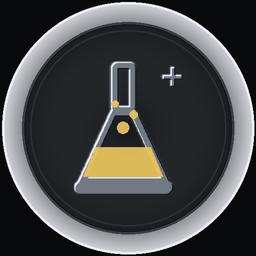
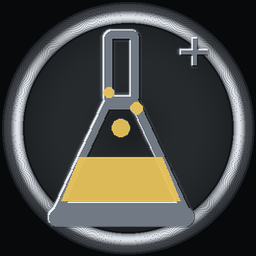
fix(achievements): match medallion proportions to the original art
Measured the original faces pixel-by-pixel and rebuilt the generator's
geometry around the numbers instead of eyeballing:

- emblem bbox max-dimension normalized to 77.5% of the canvas (originals
  measure 75-78%), replacing the ad-hoc scale factor
- bright beveled silver ring moved to 82-91% of the disc radius with a
  veteran-style bevel profile (dark inner edge, bright middle, mid outer
  edge) and a mid-dark outer rim beyond it
- drops the earlier engraved-band/hairline experiments that read thin and
  washed-out next to the originals

diff --git a/scripts/art/gen-achievement-medallions.py b/scripts/art/gen-achievement-medallions.py
@@ -1,7 +1,8 @@
 # Generator for the self-drawn TokenTracker achievement medallion faces
-# (256px, dark gunmetal disc + wide polished silver band + steel relief emblem
-# + one accent color). Style target: the existing AI-made medallions that live
-# beside the outputs. Rerun to tweak; outputs land in dashboard/public.
+# (256px, dark gunmetal disc + dark engraved band + hairline bright edge
+# + steel relief emblem + one accent color). Style target: the existing
+# AI-made medallions that live beside the outputs. Rerun to tweak; outputs
+# land in dashboard/public.
 from PIL import Image, ImageDraw, ImageOps, ImageChops, ImageFilter
 import math
 
@@ -10,27 +11,34 @@ OUT = "D:/tt-rebase/dashboard/public/achievements"
 
 STEEL = 235    # height for raised steel parts
 ACCENT_H = 205 # slightly lower relief for accent parts
-EMBLEM_SCALE = 1.32
+# Measured from the original medallions (veteran/streak/night-owl/wordsmith):
+# emblem bbox max-dimension ≈ 77.5% of the canvas; bright beveled ring at
+# ~82-91% of the disc radius; mid-dark outer rim beyond it.
+EMBLEM_TARGET = 0.775 * S
 
 
 def base_disc():
-    """Dark gunmetal face wrapped in a wide polished silver band — the thick
-    edge that reads as 'medallion' even before the CSS tier ring is applied."""
     img = Image.new("RGB", (S, S), (8, 9, 11))
     d = ImageDraw.Draw(img)
     cx = cy = S // 2
-    BAND_OUT, BAND_IN = 252, 212
-    for r in range(BAND_OUT, BAND_IN, -1):
-        t = (BAND_OUT - r) / float(BAND_OUT - BAND_IN)  # 0 outer → 1 inner
-        v = int(212 - 70 * t)
-        d.ellipse((cx - r, cy - r, cx + r, cy + r), outline=(v, v + 4, v + 9), width=2)
-    d.ellipse((cx - 251, cy - 251, cx + 251, cy + 251), outline=(236, 240, 245), width=4)
-    d.ellipse((cx - BAND_IN, cy - BAND_IN, cx + BAND_IN, cy + BAND_IN), outline=(56, 61, 67), width=5)
-    for r in range(BAND_IN - 6, 0, -2):
-        t = r / float(BAND_IN)
-        v = int(22 + 14 * math.sin(t * math.pi * 0.9))
+    # dark face (out to the ring's inner edge)
+    for r in range(210, 0, -2):
+        t = r / 210.0
+        v = int(26 + 14 * math.sin(t * math.pi * 0.9))
         d.ellipse((cx - r, cy - r, cx + r, cy + r), fill=(v, v + 3, v + 6))
-    d.ellipse((cx - 196, cy - 196, cx + 196, cy + 196), outline=(44, 49, 55), width=3)
+    # inner shadow groove
+    d.ellipse((cx - 213, cy - 213, cx + 213, cy + 213), outline=(18, 21, 25), width=7)
+    # bright beveled ring: dark inner edge → bright middle → mid outer edge
+    for r in range(234, 210, -1):
+        t = (r - 210) / 24.0
+        v = int(96 + 128 * math.sin(t * math.pi))
+        d.ellipse((cx - r, cy - r, cx + r, cy + r), outline=(v, v + 5, v + 11), width=1)
+    # mid-dark outer rim up to the edge
+    for r in range(252, 234, -1):
+        t = (r - 234) / 18.0
+        v = int(74 - 26 * t)
+        d.ellipse((cx - r, cy - r, cx + r, cy + r), outline=(v, v + 4, v + 9), width=1)
+    d.ellipse((cx - 252, cy - 252, cx + 252, cy + 252), outline=(30, 34, 40), width=4)
     return img
 
 
@@ -43,15 +51,18 @@ def emboss(height_map):
     )
 
 
-def scale_emblem(height_map, accent_layer, factor):
+def scale_emblem(height_map, accent_layer):
     """Scale the emblem about the UNION bounding box of both layers so the
-    steel relief and the accent tint stay perfectly aligned."""
+    steel relief and the accent tint stay perfectly aligned. The emblem's
+    max dimension is normalized to EMBLEM_TARGET (77.5% of the canvas —
+    measured from the original medallions)."""
     boxes = [l.getbbox() for l in (height_map, accent_layer)]
     boxes = [b for b in boxes if b]
     x0 = min(b[0] for b in boxes)
     y0 = min(b[1] for b in boxes)
     x1 = max(b[2] for b in boxes)
     y1 = max(b[3] for b in boxes)
+    factor = EMBLEM_TARGET / float(max(x1 - x0, y1 - y0))
     w = max(1, int((x1 - x0) * factor))
     hgt = max(1, int((y1 - y0) * factor))
     out_h = Image.new("L", (S, S), 0)
@@ -116,7 +127,7 @@ def early_bird():
         dh.arc((bx - 14 * s, by - 10 * s, bx, by + 10 * s), 200, 320, fill=STEEL, width=5)
         dh.arc((bx, by - 10 * s, bx + 14 * s, by + 10 * s), 220, 340, fill=STEEL, width=5)
     ImageDraw.Draw(acc).pieslice((202, 254, 310, 362), 180, 360, fill=ACC)
-    h, acc = scale_emblem(h, acc, EMBLEM_SCALE)
+    h, acc = scale_emblem(h, acc)
     save(compose(disc, h, acc), "early-bird.png")
 
 
@@ -145,7 +156,7 @@ def around_the_clock():
     moon = crescent_mask(149, 395, 23, 10)  # lower-left crescent
     acc.paste(MOON, (0, 0), moon)
     h.paste(ACCENT_H, (0, 0), moon)
-    h, acc = scale_emblem(h, acc, EMBLEM_SCALE)
+    h, acc = scale_emblem(h, acc)
     save(compose(disc, h, acc), "around-the-clock.png")
 
 
@@ -160,7 +171,7 @@ def sprinter():
     da.polygon(bolt, fill=ACC)
     for y in (216, 258, 300):
         dh.rounded_rectangle((118, y - 5, 178, y + 5), 5, fill=STEEL)
-    h, acc = scale_emblem(h, acc, EMBLEM_SCALE)
+    h, acc = scale_emblem(h, acc)
     save(compose(disc, h, acc), "sprinter.png")
 
 
@@ -178,7 +189,7 @@ def cache_alchemist():
         da.ellipse((bx - r, by - r, bx + r, by + r), fill=ACC)
     dh.line((330, 140, 330, 168), fill=STEEL, width=6)  # sparkle, raised
     dh.line((316, 154, 344, 154), fill=STEEL, width=6)
-    h, acc = scale_emblem(h, acc, EMBLEM_SCALE)
+    h, acc = scale_emblem(h, acc)
     save(compose(disc, h, acc), "cache-alchemist.png")
 
 
@@ -198,7 +209,7 @@ def real_money():
         da.ellipse((178, cy - 30, 334, cy + 18), fill=GOLD)
     for cy in (306, 334, 362):
         da.ellipse((196, cy - 18, 316, cy + 12), outline=GOLD_D[:3] + (255,), width=4)
-    h, acc = scale_emblem(h, acc, EMBLEM_SCALE)
+    h, acc = scale_emblem(h, acc)
     save(compose(disc, h, acc), "real-money.png")
 
 
@@ -215,7 +226,7 @@ def session_marathon():
     da.polygon([(224, 196), (288, 196), (256, 244)], fill=ACC)
     da.polygon([(256, 296), (222, 352), (290, 352)], fill=ACC)
     dh.line((254, 252, 254, 300), fill=ACCENT_H, width=lw(7))
-    h, acc = scale_emblem(h, acc, EMBLEM_SCALE)
+    h, acc = scale_emblem(h, acc)
     save(compose(disc, h, acc), "session-marathon.png")
 
 
